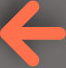
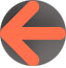
zbl55

Changed region(s): [[0.0, 0.5294, 1.0, 1.0], [0.5455, 0.0, 1.0, 0.4412], [0.0, 0.0, 0.4545, 0.4412]]

diff --git a/resources/views/web/index.blade.php b/resources/views/web/index.blade.php
@@ -4,17 +4,17 @@
 	
 	#left{
 		position:absolute;
-		left:400px;
-		top:420px;
+		left:320px;
+		top:435px;
+		border-radius:30px;
 		cursor:pointer;
-
 	}
 	#right{
 		position:absolute;
-		left:1350px;
-		top:420px;
+		left:1440px;
+		top:435px;
+		border-radius:30px;
 		cursor:pointer;
-
 	}
 	#dd1{
 		width:30px;
@@ -24,7 +24,7 @@
 		text-align:center;
 		position:absolute;
 		left:800px;
-		top:650px;
+		top:653px;
 		border-radius:30px;
 		cursor:pointer;
 	}
@@ -52,7 +52,7 @@
 						<!-- <li> -->
 						
 						
-						<a  href="javascript:fun('-')" id="left"><img src="/h/images/left.png" style="width:50px;height:50px;filter:alpha(opacity=10);"></a>
+						<a  href="javascript:fun('-')" id="left"><img src="/h/images/left.png" style="width:50px;height:50px"></a>
 						<a href="javascript:fun('+')" id="right"><img src="/h/images/right.png" style="width:50px;height:50px" ></a>
 						@for($i=0;$i<$imgnu;$i++)
 						<div id="dd1" name="anniu"  onclick="fun({{$i}})"></div>
